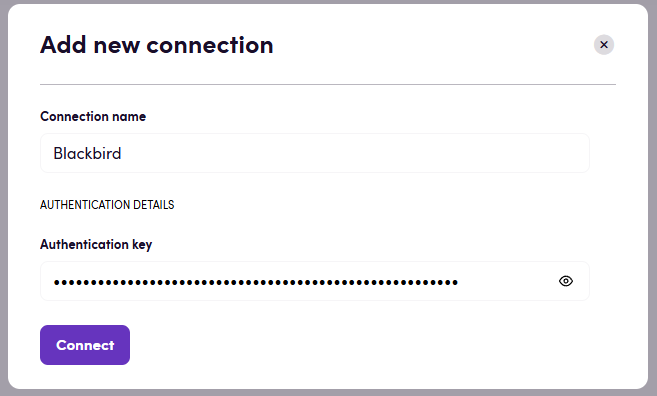
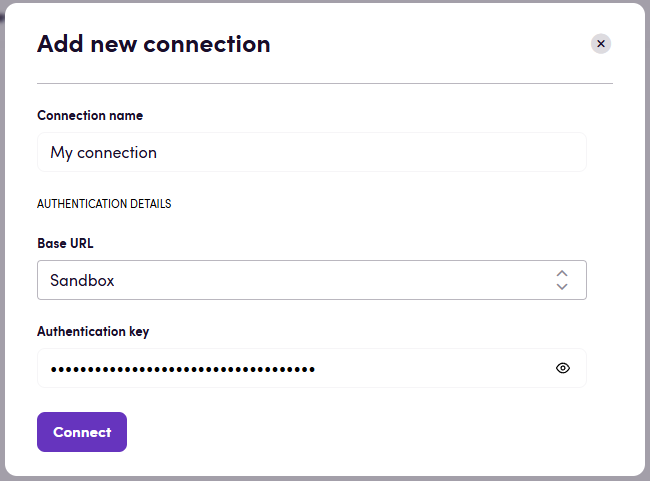
update docs

diff --git a/README.md b/README.md
@@ -16,8 +16,9 @@ Before you can connect, make sure you have a Pantheon authentication token.
 
 1. Name your connection for future reference e.g. 'My organization'.
 2. Paste your authentication key.
-3. Click _Authorize connection_ and wait for the process to complete.
-4. Confirm that the connection has appeared and its status is _Connected_.
+3. Choose the base URL: either the 'Sandbox' or 'Production' one.
+4. Click _Authorize connection_ and wait for the process to complete.
+5. Confirm that the connection has appeared and its status is _Connected_.
 
 ![connecting](image/README/connection.png)
 
